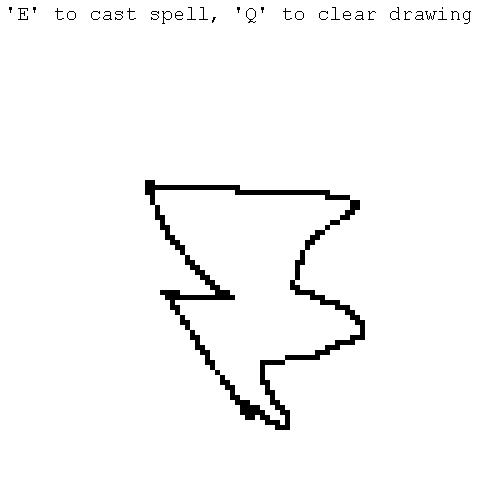
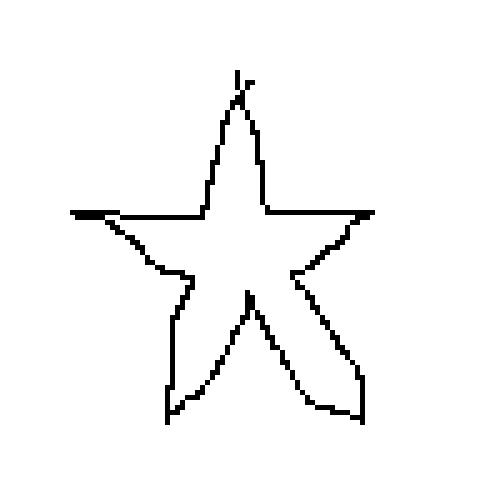
nice maze

diff --git a/src/Main/java/Graphics/Rendering/World.java b/src/Main/java/Graphics/Rendering/World.java
@@ -347,7 +347,8 @@ public class World {
                         player.setFireball(false);
                         shot = false;
                         fireBall = null;
-                        player_lights[6].setAttenuation(NO_LIGHT);
+                        player_lights[6].setColor(new Vector3f(1f, .75f, .0f));
+                        player_lights[6].setAttenuation(new Vector3f(.5f, .2f, .2f));
                     }
                     if (shot) {
                         player_lights[6].setPosition(new Vector3f(fireBall.getPosition().x, fireBall.getPosition().y, 1f));

diff --git a/src/Main/java/AI/ImageRecognition/DrawingCanvas.java b/src/Main/java/AI/ImageRecognition/DrawingCanvas.java
@@ -152,7 +152,7 @@ public class DrawingCanvas extends JFrame implements Runnable {
                 }
             }
             // don't render text when saving image
-            if (canvasColor != Color.BLACK) {
+            if (canvasColor != Color.WHITE) {
                 // drawing canvas usage text (may be placed in canvas border texture later)
                 g.setColor(Color.BLACK);
                 g.setFont(new Font("DialogInput", Font.PLAIN, 20));
